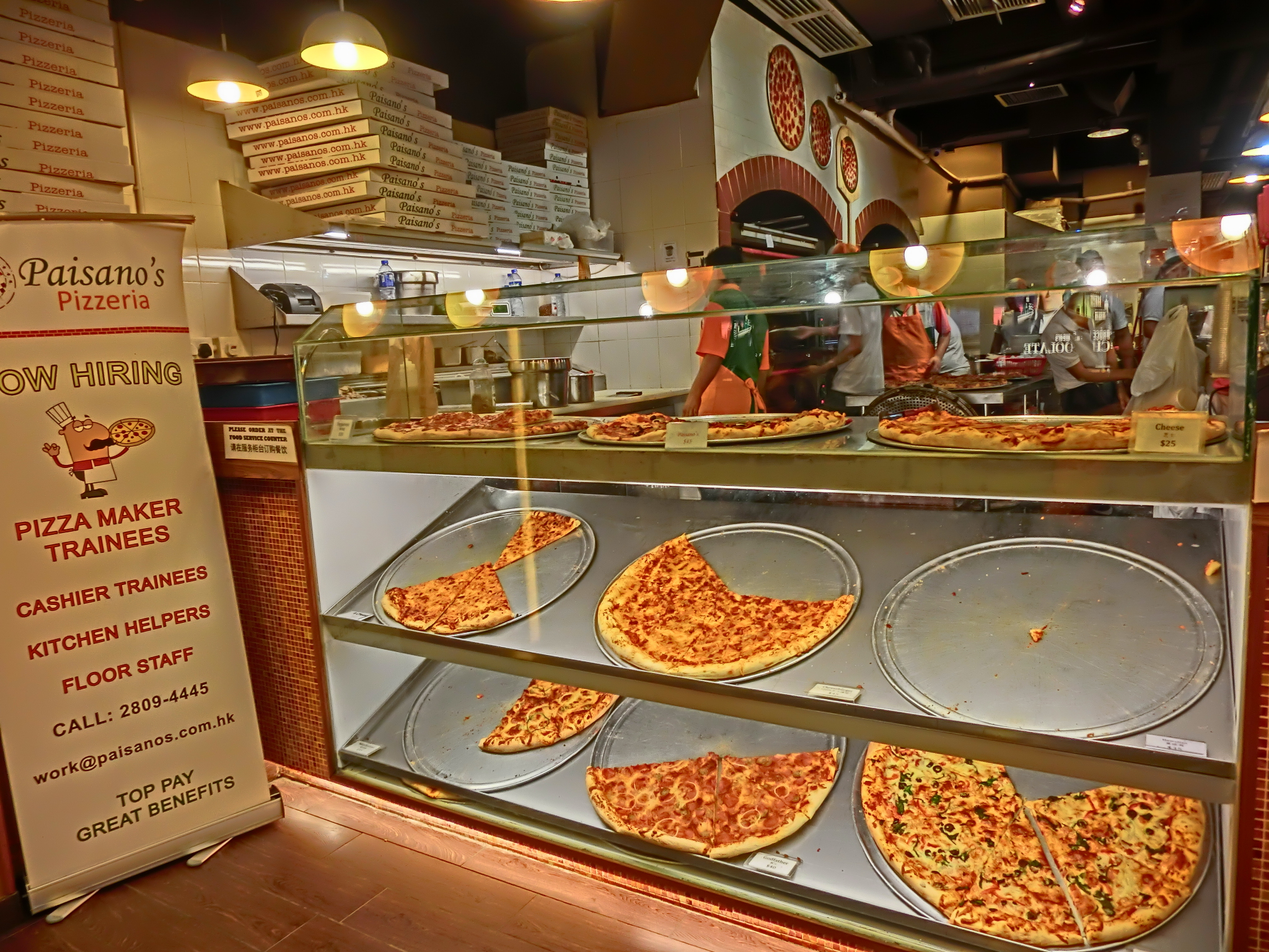
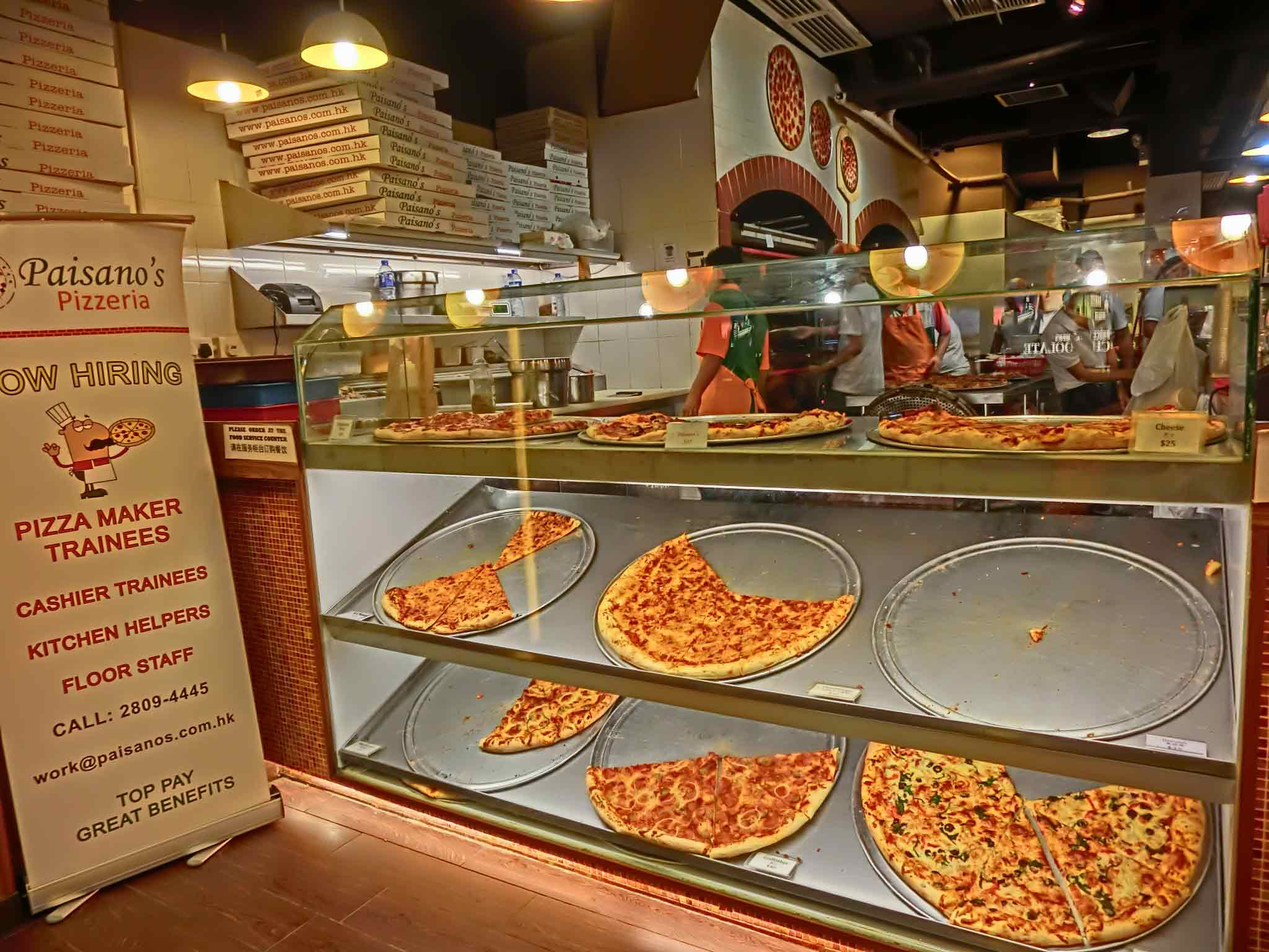
Reduce image size

diff --git a/index.html b/index.html
@@ -1,6 +1,6 @@
-<!DOCTYPE html><html lang="en"><head><meta charset="utf-8"><meta name="viewport" content="width=device-width,initial-scale=1"><meta name="description" content=" FILL ME IN "><meta name="author" content=" FILL ME IN "><title>Cameron Pittman: Portfolio</title><!-- Hmm, what is the impact of web fonts on speed? Measure it... --><link href="//fonts.googleapis.com/css?family=Open+Sans:400,700" rel="stylesheet"><link href="css/style.css" rel="stylesheet"><link href="css/print.css" rel="stylesheet" media="print"><script>(function(w,g){w['GoogleAnalyticsObject']=g;
+<!DOCTYPE html><html lang="en"><head><meta charset="utf-8"><meta name="viewport" content="width=device-width,initial-scale=1"><meta name="description" content=" FILL ME IN "><meta name="author" content=" FILL ME IN "><title>Cameron Pittman: Portfolio</title><!-- Hmm, what is the impact of web fonts on speed? Measure it... --><script async>(function(w,g){w['GoogleAnalyticsObject']=g;
       w[g]=w[g]||function(){(w[g].q=w[g].q||[]).push(arguments)};w[g].l=1*new Date();})(window,'ga');
 
       // TODO: replace with your Google Analytics profile ID.
       ga('create', 'UA-XXXX-Y');
-      ga('send', 'pageview');</script><script src="http://www.google-analytics.com/analytics.js"></script><script async src="js/perfmatters.js"></script></head><body><header><a href="/"><img src="img/profilepic.jpg"></a><p>Cameron Pittman<br><span>Course Developer</span></p></header><div class="container"><div class="hero"><strong>I love web development!</strong> This is a template for a simple portfolio. I decided to use it to showcase a few Udacity courses I've taken and some teaching work, but you can use it to showcase any kind of project that you want the world to see :)<br>Contact me: me@email.com</div><div class="content"><ul><li><img src="https://lh4.ggpht.com/kJEnfqhPvtm4m3EneSZ4fWYGS8lW4YNhEjk6zPkyrQaBUHc-2Y_ElDic99NHI0h-UBLXVbRCjFybFvrWxdk=s100"> <a href="project-2048.html">Build Your Own 2048!</a><p>I made my own version of 2048. How cool is that!?</p></li><li><img src="https://lh6.ggpht.com/f_0W8h__3G99CWTjnMjD8BUKm7yp2-wJyApLtTwFoFtlal2ULf_JgHIsOQq2NiYfKOdMlXlMHDKNo5XVZLs=s100"> <a href="project-webperf.html">Website Performance Optimization</a><p>Hey... this class looks familiar.</p></li><li><img src="https://lh5.ggpht.com/IKdCmTWn8a2nMhlwMYzryvzRN5CUZAOBr4tDrEAbszV7TIFe9pRAInA4kkYcgTXwrifJsBEsq1agTueuu-g=s100"> <a href="project-mobile.html">Mobile Web Development</a><p>Making mobile apps isn't so hard after all.</p></li><li><img style="width: 100px" src="img/pizzeria.jpg"> <a href="views/pizza.html">Cam's Pizzeria</a><p>Who wants a performant pizza?</p></li></ul></div><footer><p>&copy; Web Performance 2014 <span id="crp-stats"></span></p></footer></div></body></html>
+      ga('send', 'pageview');</script><link href="//fonts.googleapis.com/css?family=Open+Sans:400,700" rel="stylesheet"><link href="css/style.css" rel="stylesheet"><link href="css/print.css" rel="stylesheet" media="print"><script src="http://www.google-analytics.com/analytics.js"></script><script async src="js/perfmatters.js"></script></head><body><header><a href="/"><img src="img/profilepic.jpg"></a><p>Cameron Pittman<br><span>Course Developer</span></p></header><div class="container"><div class="hero"><strong>I love web development!</strong> This is a template for a simple portfolio. I decided to use it to showcase a few Udacity courses I've taken and some teaching work, but you can use it to showcase any kind of project that you want the world to see :)<br>Contact me: me@email.com</div><div class="content"><ul><li><img src="https://lh4.ggpht.com/kJEnfqhPvtm4m3EneSZ4fWYGS8lW4YNhEjk6zPkyrQaBUHc-2Y_ElDic99NHI0h-UBLXVbRCjFybFvrWxdk=s100"> <a href="project-2048.html">Build Your Own 2048!</a><p>I made my own version of 2048. How cool is that!?</p></li><li><img src="https://lh6.ggpht.com/f_0W8h__3G99CWTjnMjD8BUKm7yp2-wJyApLtTwFoFtlal2ULf_JgHIsOQq2NiYfKOdMlXlMHDKNo5XVZLs=s100"> <a href="project-webperf.html">Website Performance Optimization</a><p>Hey... this class looks familiar.</p></li><li><img src="https://lh5.ggpht.com/IKdCmTWn8a2nMhlwMYzryvzRN5CUZAOBr4tDrEAbszV7TIFe9pRAInA4kkYcgTXwrifJsBEsq1agTueuu-g=s100"> <a href="project-mobile.html">Mobile Web Development</a><p>Making mobile apps isn't so hard after all.</p></li><li><img style="width: 100px" src="img/pizzeria.jpg"> <a href="views/pizza.html">Cam's Pizzeria</a><p>Who wants a performant pizza?</p></li></ul></div><footer><p>&copy; Web Performance 2014 <span id="crp-stats"></span></p></footer></div></body></html>
